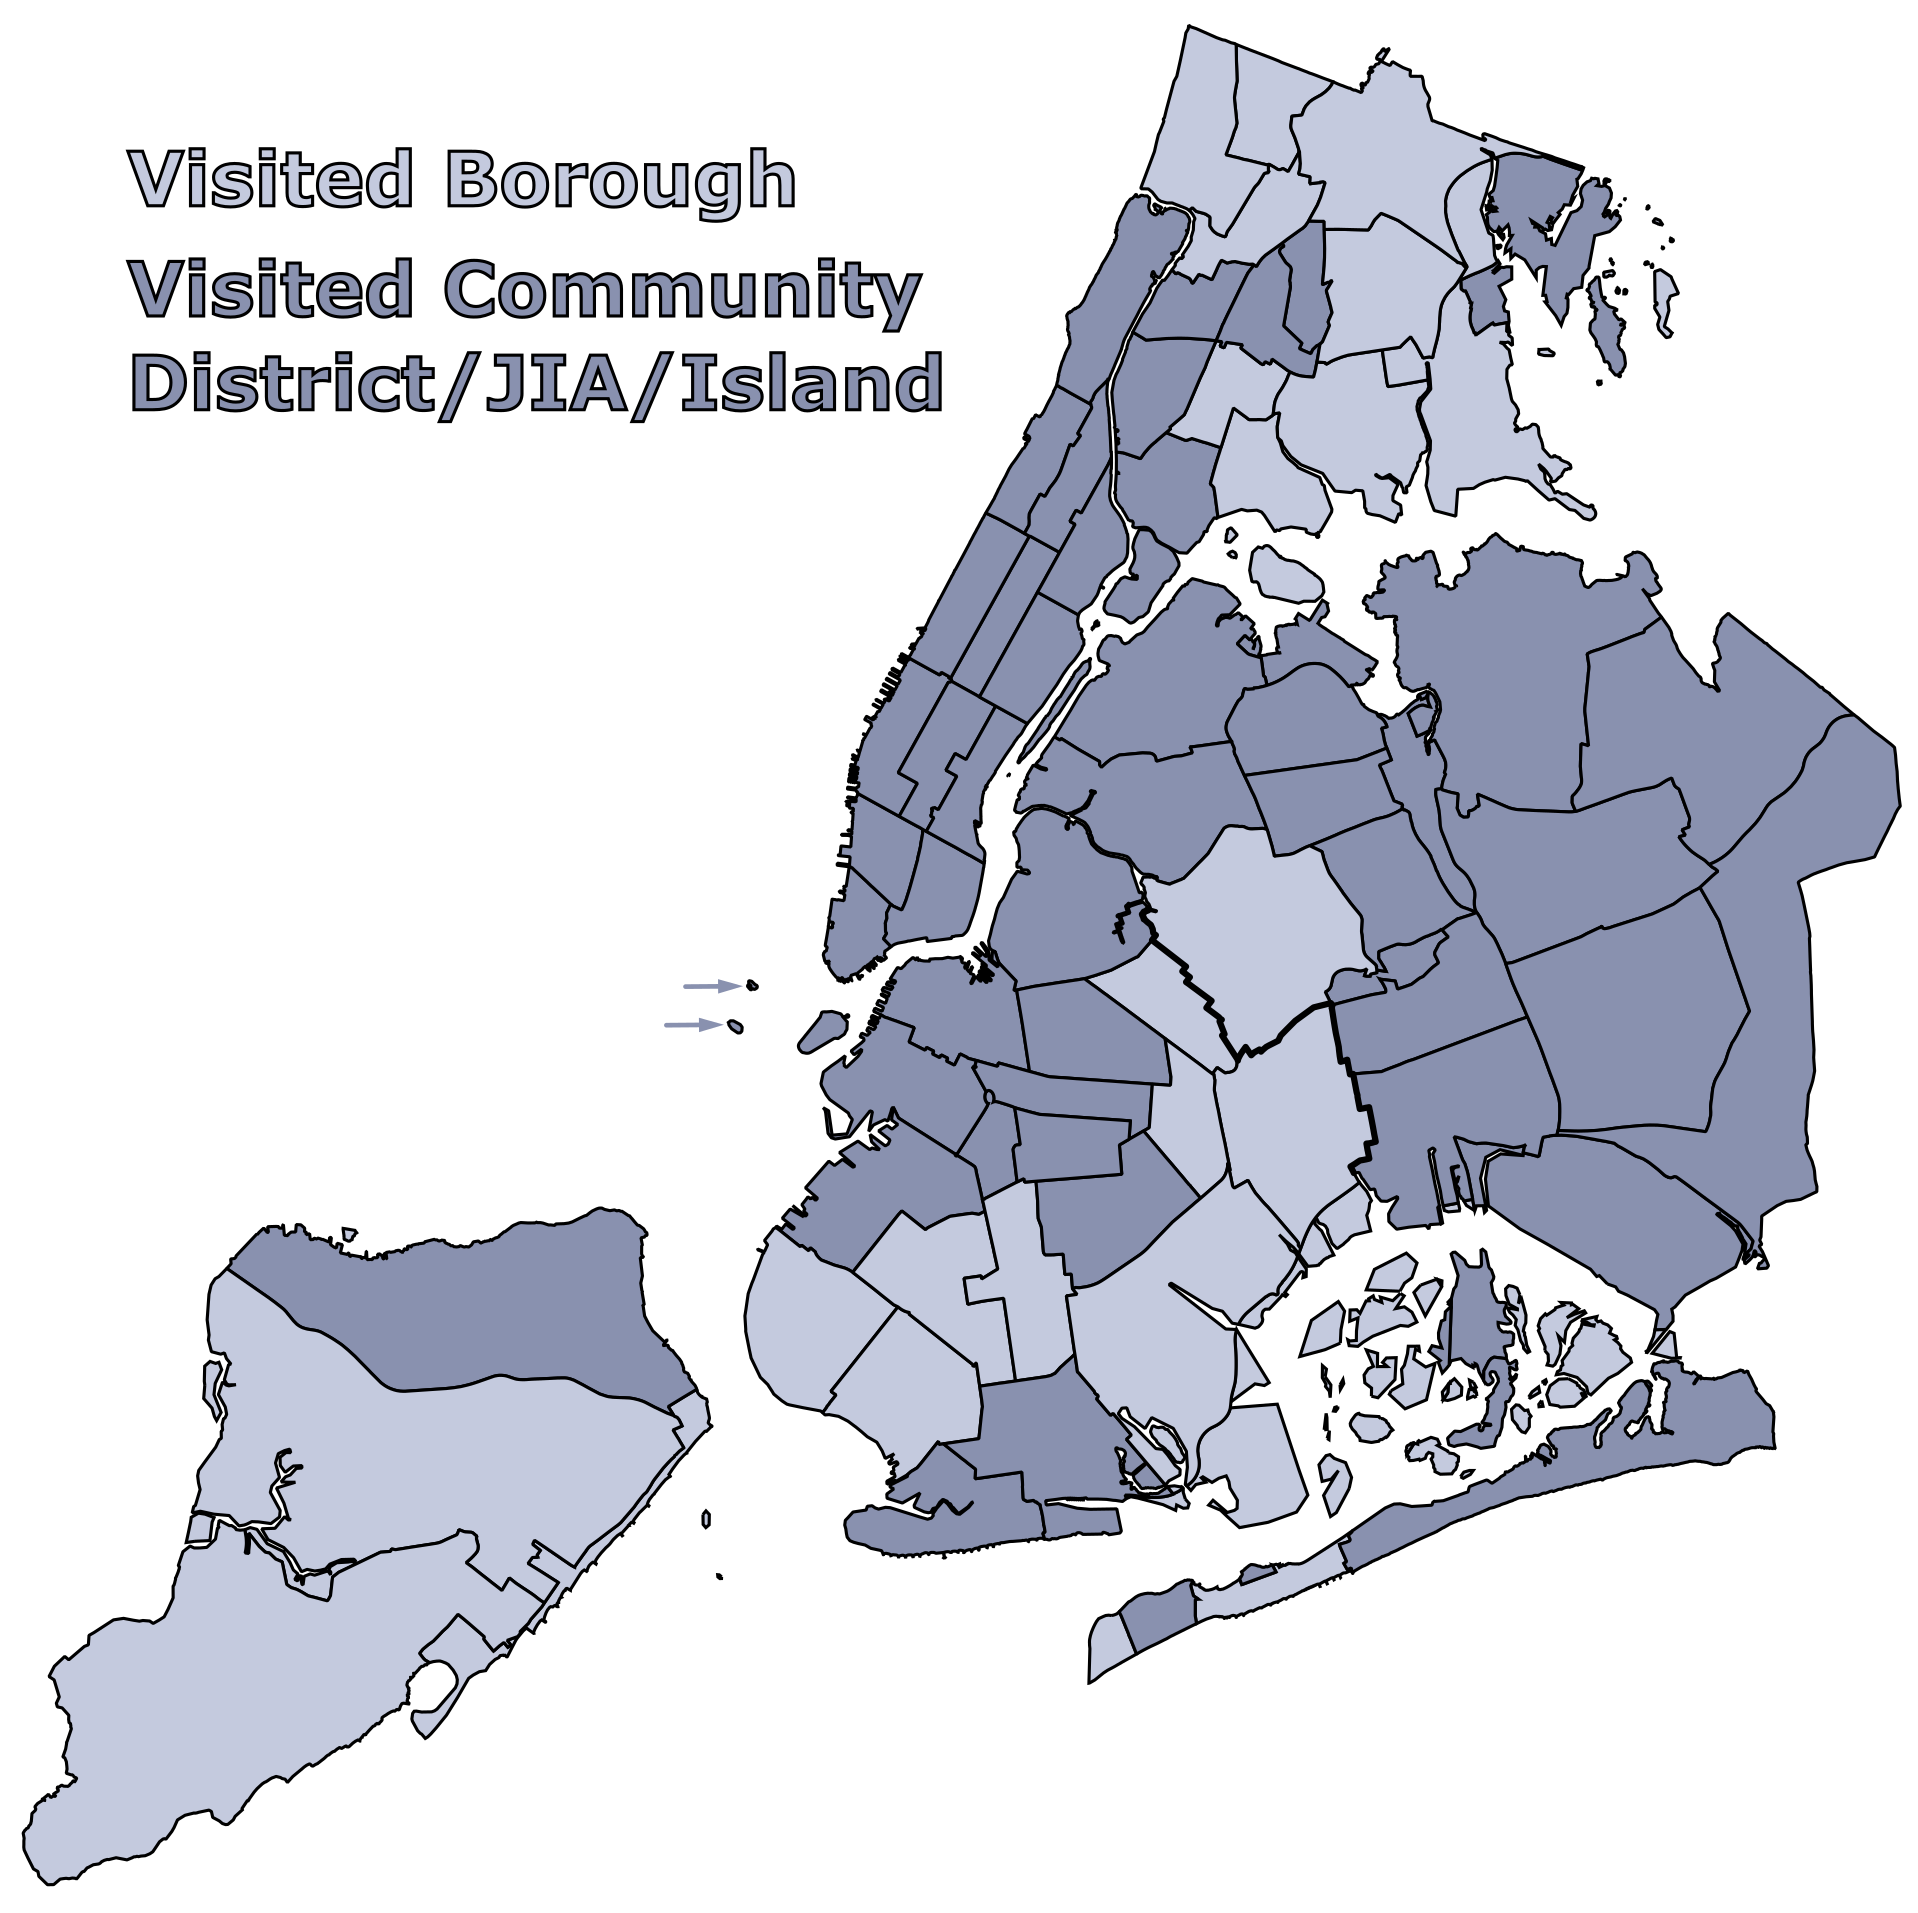
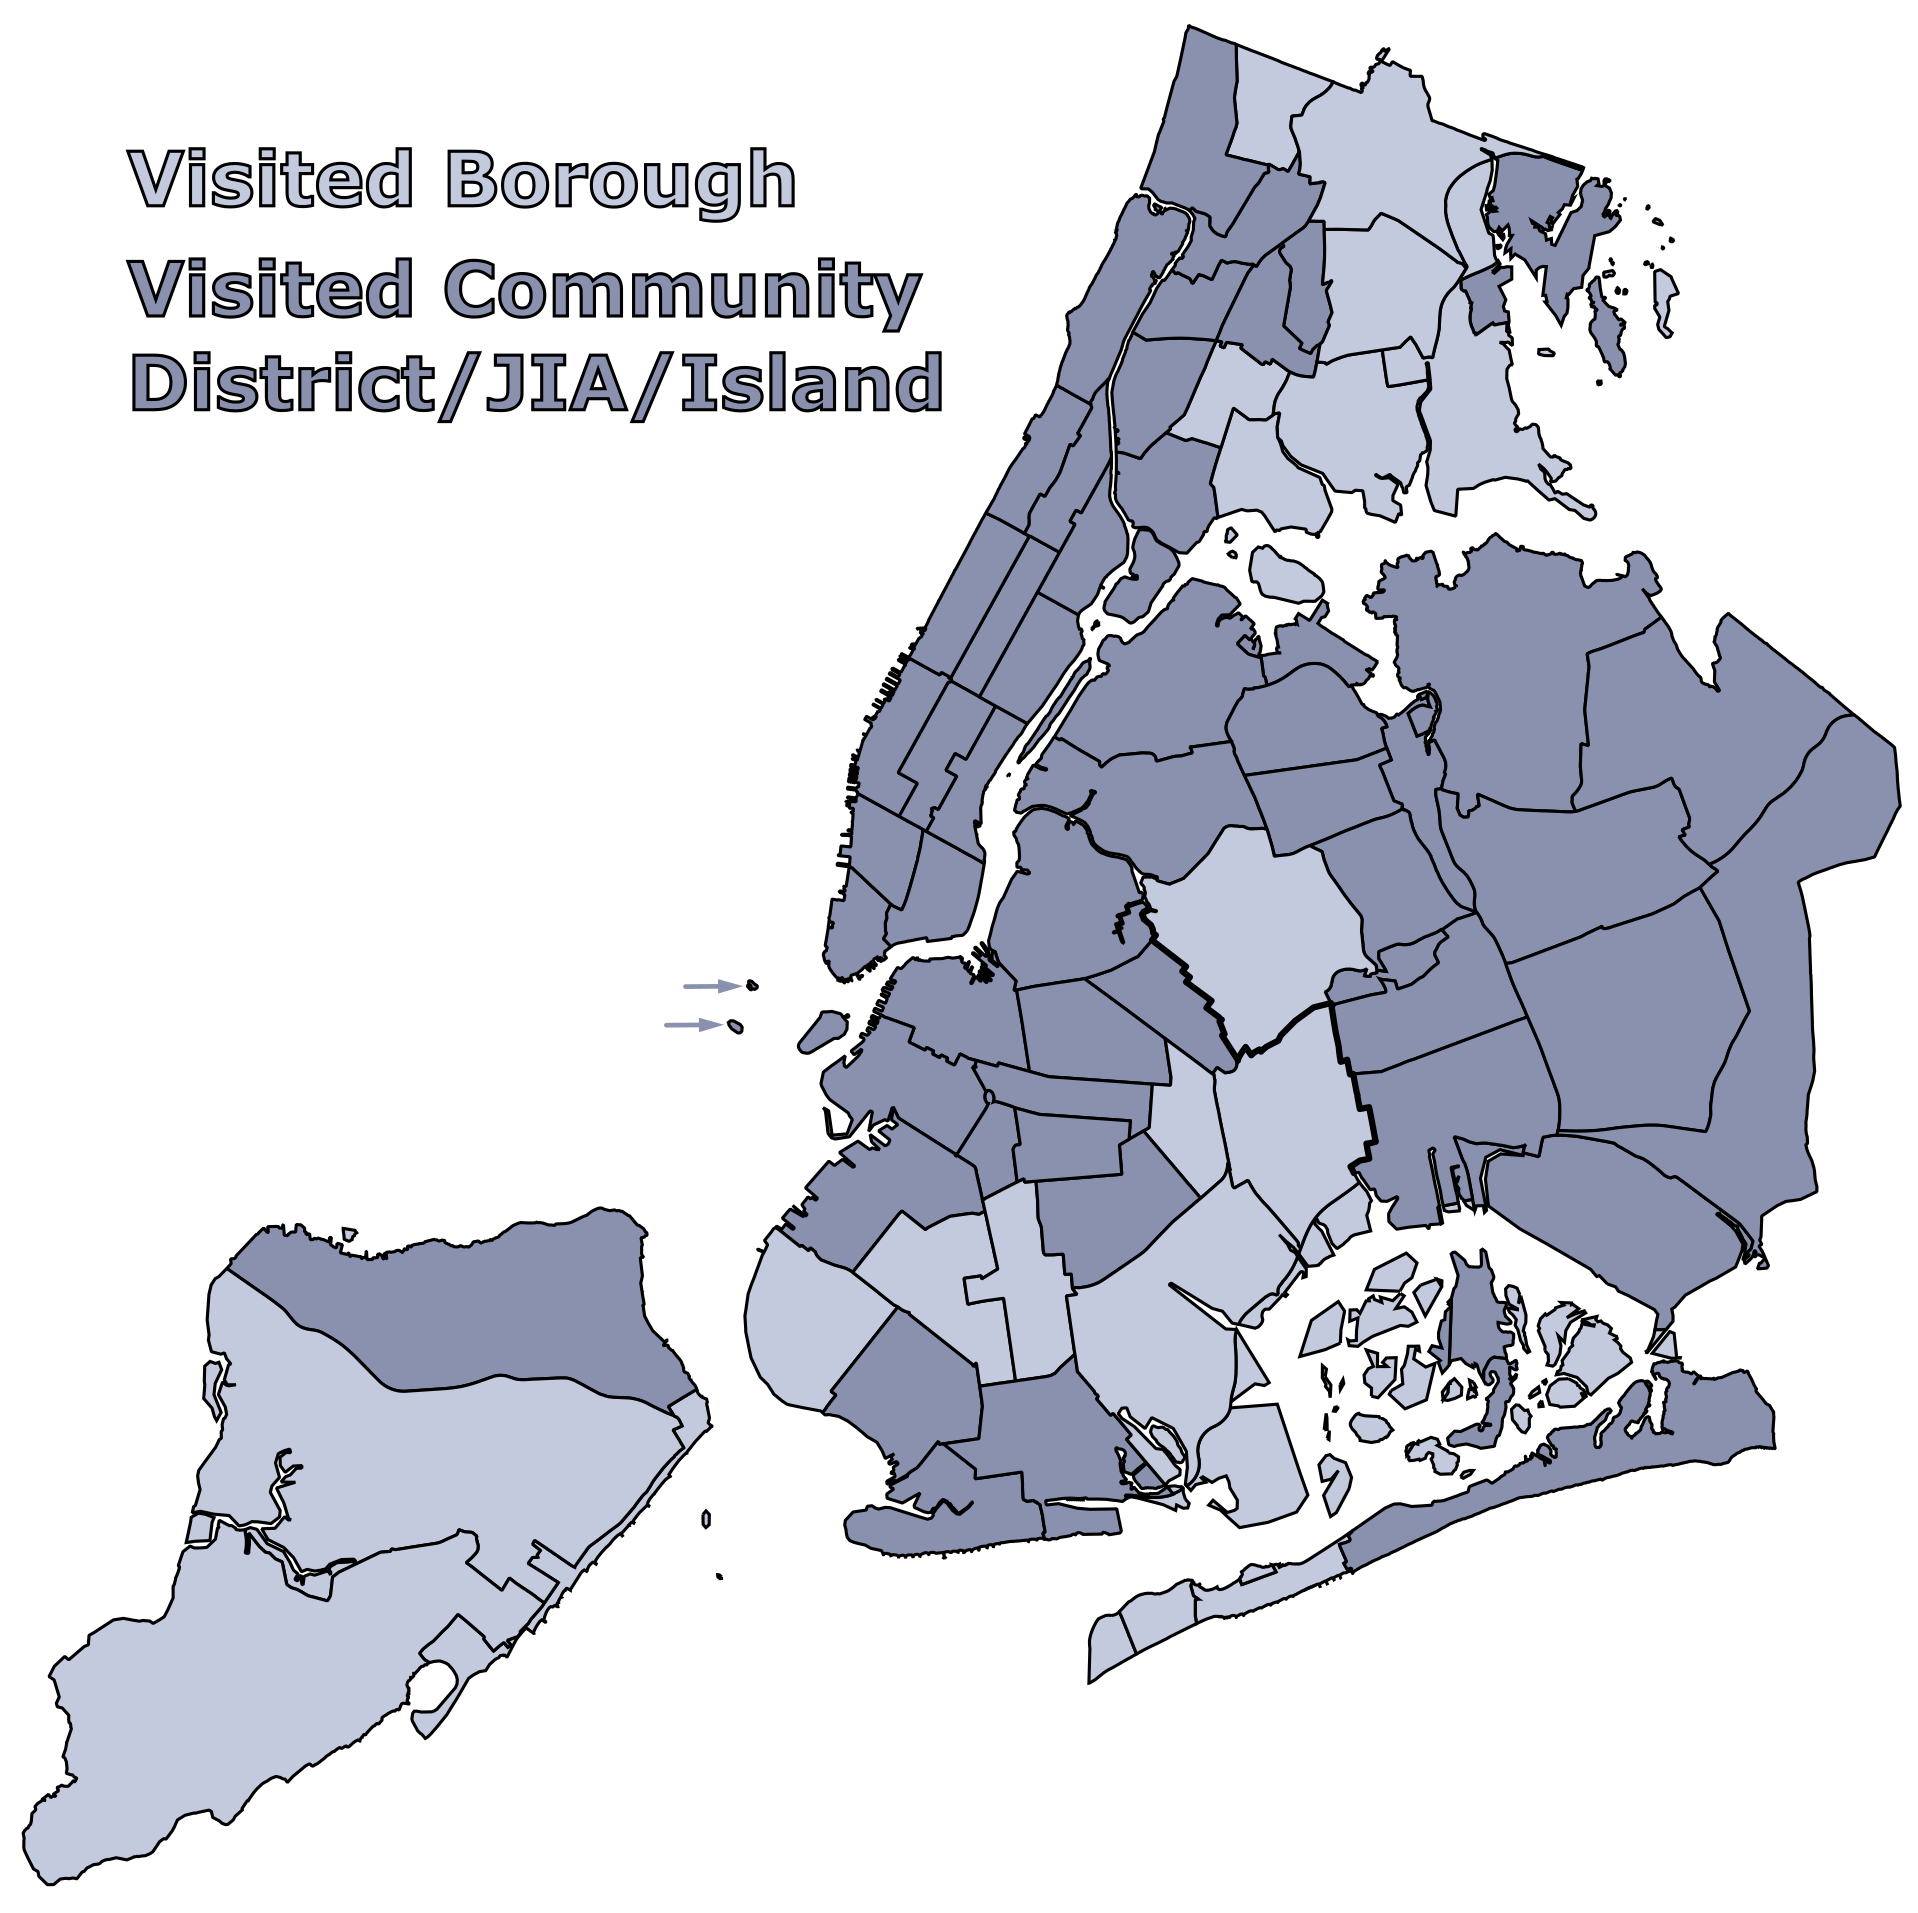
various

diff --git a/index.html b/index.html
@@ -32,7 +32,7 @@
     <p>
       <strong>email:</strong>
     jordan.kodner <a href="https://web.archive.org/web/20170701141639/https://openmap.bbn.com/~tomlinso/ray/firstemailframe.html">at-sign</a>
-    stonybrook edu <!--(<em>contact for full CV</em>)--> <br/>
+    stonybrook edu <br/>
       <strong>office:</strong> Dept. of Linguistics, Social &
       Behavioral Sciences Building (SBS), Floor 2
     </p>
@@ -135,19 +135,18 @@ speech?</emph></a></p>-->
       <!-- M-q-->
       <li class="hangingindent">
         <a href="hot.gif"><img src="hot.gif" alt="hot!"
-        height="40"/></a> <a href="https://paynesa.github.io/">Sarah
-        Payne</a>, and Jordan
-        Kodner. (2025). <a href="https://www.degruyterbrill.com/document/doi/10.1515/lingvan-2024-0217/html">Some
-        Innate Characteristics of Neural Network Models of
-        Morphological Inflection</a>. <em>Linguistics
-        Vanguard</em>. (<a href="https://lingbuzz.net/lingbuzz/009271">manuscript</a>)
+        height="40"/></a> <a href="https://mattmalone.ws.gc.cuny.edu/">Matt
+        Malone</a>, Jordan Kodner,
+        and <a href="http://www.spencercaplan.org/"></a>. (<em>submitted</em>). <a href="https://lingbuzz.net/lingbuzz/009964">Excavating
+        grammatical fossils: Effects and causes in the semantic
+        organization of Swahili noun classes</a>.
     </li>
 
       <li class="hangingindent"  style="padding-bottom:50px">
         <a href="hot.gif"><img src="hot.gif" alt="hot!"
         height="40"/></a> Jordan
         Kodner, <a href="https://paynesa.github.io/">Sarah
-        Payne</a>, <a href="https://www.jeffreyheinz.net/">Jeff
+        Payne</a>, and <a href="https://www.jeffreyheinz.net/">Jeff
         Heinz</a>. (2023). <a href="https://lingbuzz.net/lingbuzz/007485">Why
         Linguistics Will Thrive in the 21st Century: A Reply to
         Piantadosi (2023)</a>.
@@ -229,6 +228,13 @@ speech?</emph></a></p>-->
     <ul style="list-style-type:none"  class="hangingindent">
 
 <!--a href="hot.gif"><img src="hot.gif" alt="hot!" height="40"/></a-->
+
+      <li class="hangingindent">
+        <a href="https://mattmalone.ws.gc.cuny.edu/">Matt Malone</a>,
+        Jordan Kodner, and <a href="http://www.spencercaplan.org/"></a>. (<em>submitted</em>). <a href="https://lingbuzz.net/lingbuzz/009964">Excavating
+        grammatical fossils: Effects and causes in the semantic
+        organization of Swahili noun classes</a>.
+    </li>
 
       <li class="hangingindent">
 	<a href="https://you.stonybrook.edu/deovlet/">Hossep
@@ -373,10 +379,20 @@ speech?</emph></a></p>-->
       <!-- M-q-->
     <li class="hangingindent">
 <a href="https://www.linkedin.com/in/abed-qaddoumi-1b6602248">Abed
-        Qaddoumi</a>, Jordan Kodner, Salam
+        Qaddoumi</a>, Jordan
+        Kodner, <a href="https://owenrambow.com/">Owen Rambow</a>,
+        Salam Khalifa,
+        and <a href="https://www.jeffreyheinz.net/">Jeff
+        Heinz</a>. (<em>to appear</em>). Learning Stress in Arabic
+        Low-Resource Settings. In <em>The 2026 Proceedings of the
+        Society for Computation in Linguistics (SCiL).</em>.
+    </li>
+
+    <li class="hangingindent">
+Abed Qaddoumi, Jordan Kodner, Salam
         Khalifa, <a href="https://linguistics.stonybrook.edu/faculty/ellen.broselow/">Ellen
-        Broselow</a> and <a href="https://owenrambow.com/">Owen
-        Rambow</a>. (2026). <a href="https://aclanthology.org/2026.vardial-1.21/">Syllable
+        Broselow</a> and Owen
+        Rambow. (2026). <a href="https://aclanthology.org/2026.vardial-1.21/">Syllable
         Structures Across Arabic Varieties</a>. In <em>The Thirteenth
         Workshop on NLP for Similar Languages, Varieties and Dialects
         (VarDial)</em>, pages 150-260.
@@ -385,7 +401,6 @@ speech?</emph></a></p>-->
 
     <h4>2025</h4>
 
-      <!-- M-q-->
     <li class="hangingindent">
       Sarah Payne and Jordan
 	  Kodner. (2025). <a href="https://aclanthology.org/2025.findings-acl.1296/">Lemmas
@@ -678,8 +693,7 @@ the 45th Annual Meeting of the Cognitive Science Society
       <!-- M-q-->
       <li class="hangingindent">
         Jordan Kodner, Sarah
-        Payne, <a href="https://www.jeffreyheinz.net/">Jeff
-        Heinz</a>. (2023). <a href="https://lingbuzz.net/lingbuzz/007485">Why
+        Payne, Jeff Heinz. (2023). <a href="https://lingbuzz.net/lingbuzz/007485">Why
         Linguistics Will Thrive in the 21st Century: A Reply to
         Piantadosi (2023)</a>.
     </li>
@@ -712,12 +726,19 @@ the 45th Annual Meeting of the Cognitive Science Society
     <ul style="list-style-type:none"  class="hangingindent">
 
       <li class="hangingindent">
-	(invited). Jordan Kodner. (<em>Title TBD</em>). CUNY Cognitive
+	(invited). Panel on "Human Perspectives on
+	Teaching and Learning in the Age of AI." 2026 Bronx EdTech
+	Showcase. Bronx Community College, New York.
+	</li>
+
+      <li class="hangingindent">
+	(invited). Jordan Kodner. "The Endemic Conflation of Populations and Individuals 
+in Computational and Experimental Linguistics.. CUNY Cognitive
 	Science Colloquium, CUNY Graduate Center, New York.
 	</li>
 
       <li class="hangingindent">
-	<a href="https://mattmalone.ws.gc.cuny.edu/">Matt Malone</a>,
+	Matt Malone,
 	Jordan Kodner, & Spencer Caplan. "Effects and Causes: On the
 	Semantic Coherence of Swahili Noun
 	Classes." <a href="https://web.cvent.com/event/d453188a-a321-46d4-b57e-79d5067e6521/summary">LSA